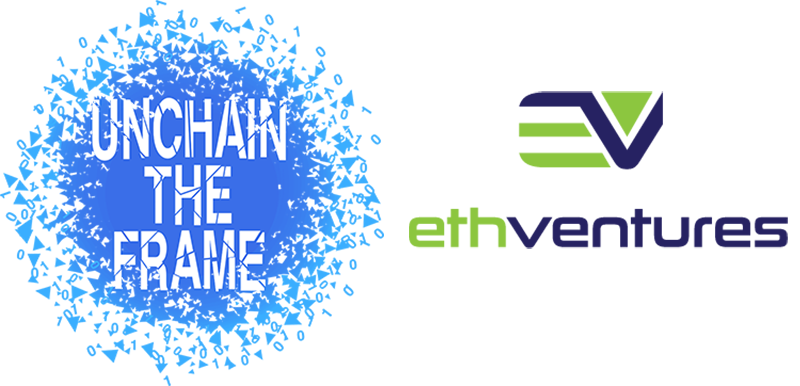
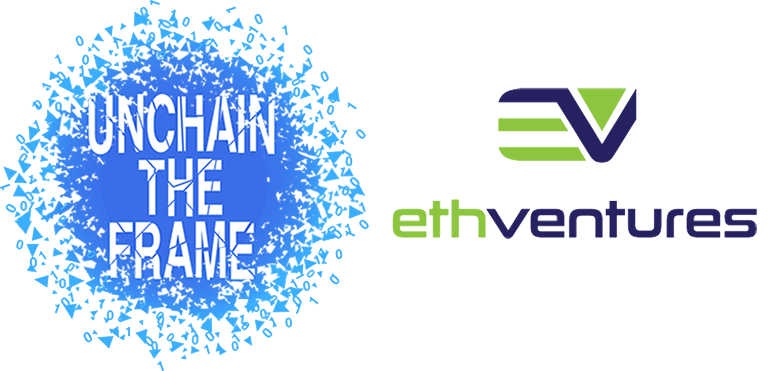
adding a little more information to home screen of app

diff --git a/src/pages/home/home.html b/src/pages/home/home.html
@@ -8,8 +8,12 @@
 </ion-header>
 
 <ion-content padding>
+  <div text-center>
+    <ion-img width=768 height=371 src="assets/images/blue-mix-ethventures.png" style="background: transparent"></ion-img>
+  </div>
   <h2>Quick Start</h2>
   <p>To begin testing the app, login using the menu on the upper left corner.</p>
+  <p>Username: demo<br>Password: demo</p>
 
   <h2>The Challenge</h2>
   <p>Master Blockchain, Machine Learning, and Industry APIs and Open Source Technology while competing in a four-month <a href="https://unchaintheframe.com">virtual hackathon</a>.</p>
@@ -50,8 +54,6 @@
   <p> <a href="https://goo.gl/Q4YYem">Click Here</a> for the detailed breakdown of our Phase II Submission.</p>
   <p> <a href="https://goo.gl/DaeEM6">Click Here</a> for our Phase I Submission.</p>
 
-  <div text-center>
-    <ion-img width=800 height=386 src="assets/images/blue-mix-ethventures.png" style="background: transparent"></ion-img>
-  </div>
+
 
 </ion-content>
